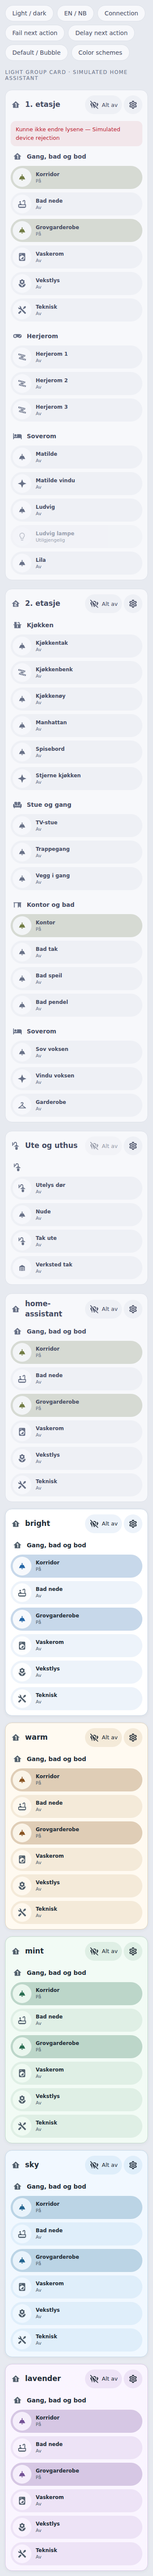
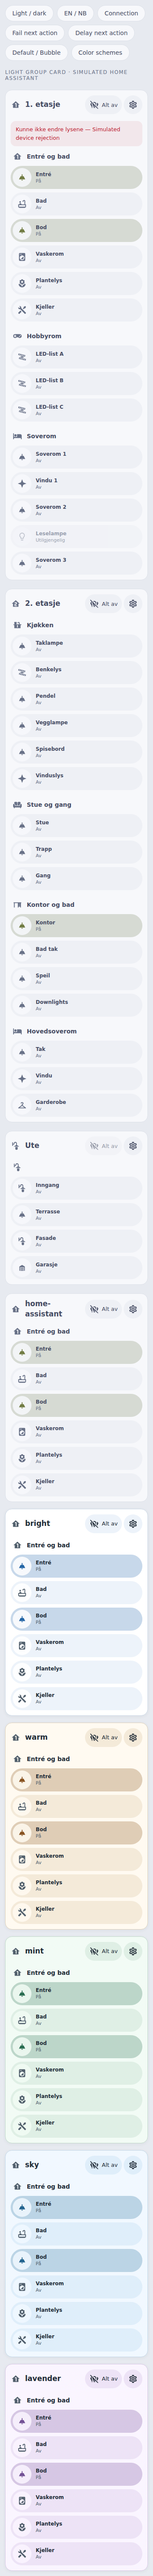
docs: use generic dummy names in preview screenshots

diff --git a/demo/preview.ts b/demo/preview.ts
@@ -95,6 +95,7 @@ function room(
     }),
   };
 }
+// Generic dummy names only: published previews must not reveal a real home.
 const configs: CardConfig[] = [
   {
     type: "custom:light-group-card",
@@ -102,25 +103,25 @@ const configs: CardConfig[] = [
     icon: "mdi:home-floor-1",
     appearance: "bubble",
     sections: [
-      room("Gang, bad og bod", "home-floor-1", [
-        ["Korridor", "ceiling-light", "on"],
-        ["Bad nede", "bathtub-outline"],
-        ["Grovgarderobe", "ceiling-light", "on"],
+      room("Entré og bad", "home-floor-1", [
+        ["Entré", "ceiling-light", "on"],
+        ["Bad", "bathtub-outline"],
+        ["Bod", "ceiling-light", "on"],
         ["Vaskerom", "washing-machine"],
-        ["Vekstlys", "flower"],
-        ["Teknisk", "tools"],
+        ["Plantelys", "flower"],
+        ["Kjeller", "tools"],
       ]),
-      room("Herjerom", "controller-classic", [
-        ["Herjerom 1", "led-strip-variant"],
-        ["Herjerom 2", "led-strip-variant"],
-        ["Herjerom 3", "led-strip-variant"],
+      room("Hobbyrom", "controller-classic", [
+        ["LED-list A", "led-strip-variant"],
+        ["LED-list B", "led-strip-variant"],
+        ["LED-list C", "led-strip-variant"],
       ]),
       room("Soverom", "bed", [
-        ["Matilde"],
-        ["Matilde vindu", "star-four-points"],
-        ["Ludvig"],
-        ["Ludvig lampe", "lightbulb-outline", "unavailable"],
-        ["Lila"],
+        ["Soverom 1"],
+        ["Vindu 1", "star-four-points"],
+        ["Soverom 2"],
+        ["Leselampe", "lightbulb-outline", "unavailable"],
+        ["Soverom 3"],
       ]),
     ],
   },
@@ -131,42 +132,42 @@ const configs: CardConfig[] = [
     appearance: "bubble",
     sections: [
       room("Kjøkken", "countertop", [
-        ["Kjøkkentak"],
-        ["Kjøkkenbenk", "led-strip-variant"],
-        ["Kjøkkenøy"],
-        ["Manhattan"],
+        ["Taklampe"],
+        ["Benkelys", "led-strip-variant"],
+        ["Pendel"],
+        ["Vegglampe"],
         ["Spisebord"],
-        ["Stjerne kjøkken", "star-four-points"],
+        ["Vinduslys", "star-four-points"],
       ]),
       room("Stue og gang", "sofa", [
-        ["TV-stue"],
-        ["Trappegang"],
-        ["Vegg i gang"],
+        ["Stue"],
+        ["Trapp"],
+        ["Gang"],
       ]),
       room("Kontor og bad", "desk", [
         ["Kontor", "ceiling-light", "on"],
         ["Bad tak"],
-        ["Bad speil"],
-        ["Bad pendel"],
+        ["Speil"],
+        ["Downlights"],
       ]),
-      room("Soverom", "bed", [
-        ["Sov voksen"],
-        ["Vindu voksen", "star-four-points"],
+      room("Hovedsoverom", "bed", [
+        ["Tak"],
+        ["Vindu", "star-four-points"],
         ["Garderobe", "hanger"],
       ]),
     ],
   },
   {
     type: "custom:light-group-card",
-    title: "Ute og uthus",
+    title: "Ute",
     icon: "mdi:outdoor-lamp",
     appearance: "bubble",
     sections: [
       room("", "outdoor-lamp", [
-        ["Utelys dør", "outdoor-lamp"],
-        ["Nude"],
-        ["Tak ute", "outdoor-lamp"],
-        ["Verksted tak", "garage"],
+        ["Inngang", "outdoor-lamp"],
+        ["Terrasse"],
+        ["Fasade", "outdoor-lamp"],
+        ["Garasje", "garage"],
       ]),
     ],
   },
